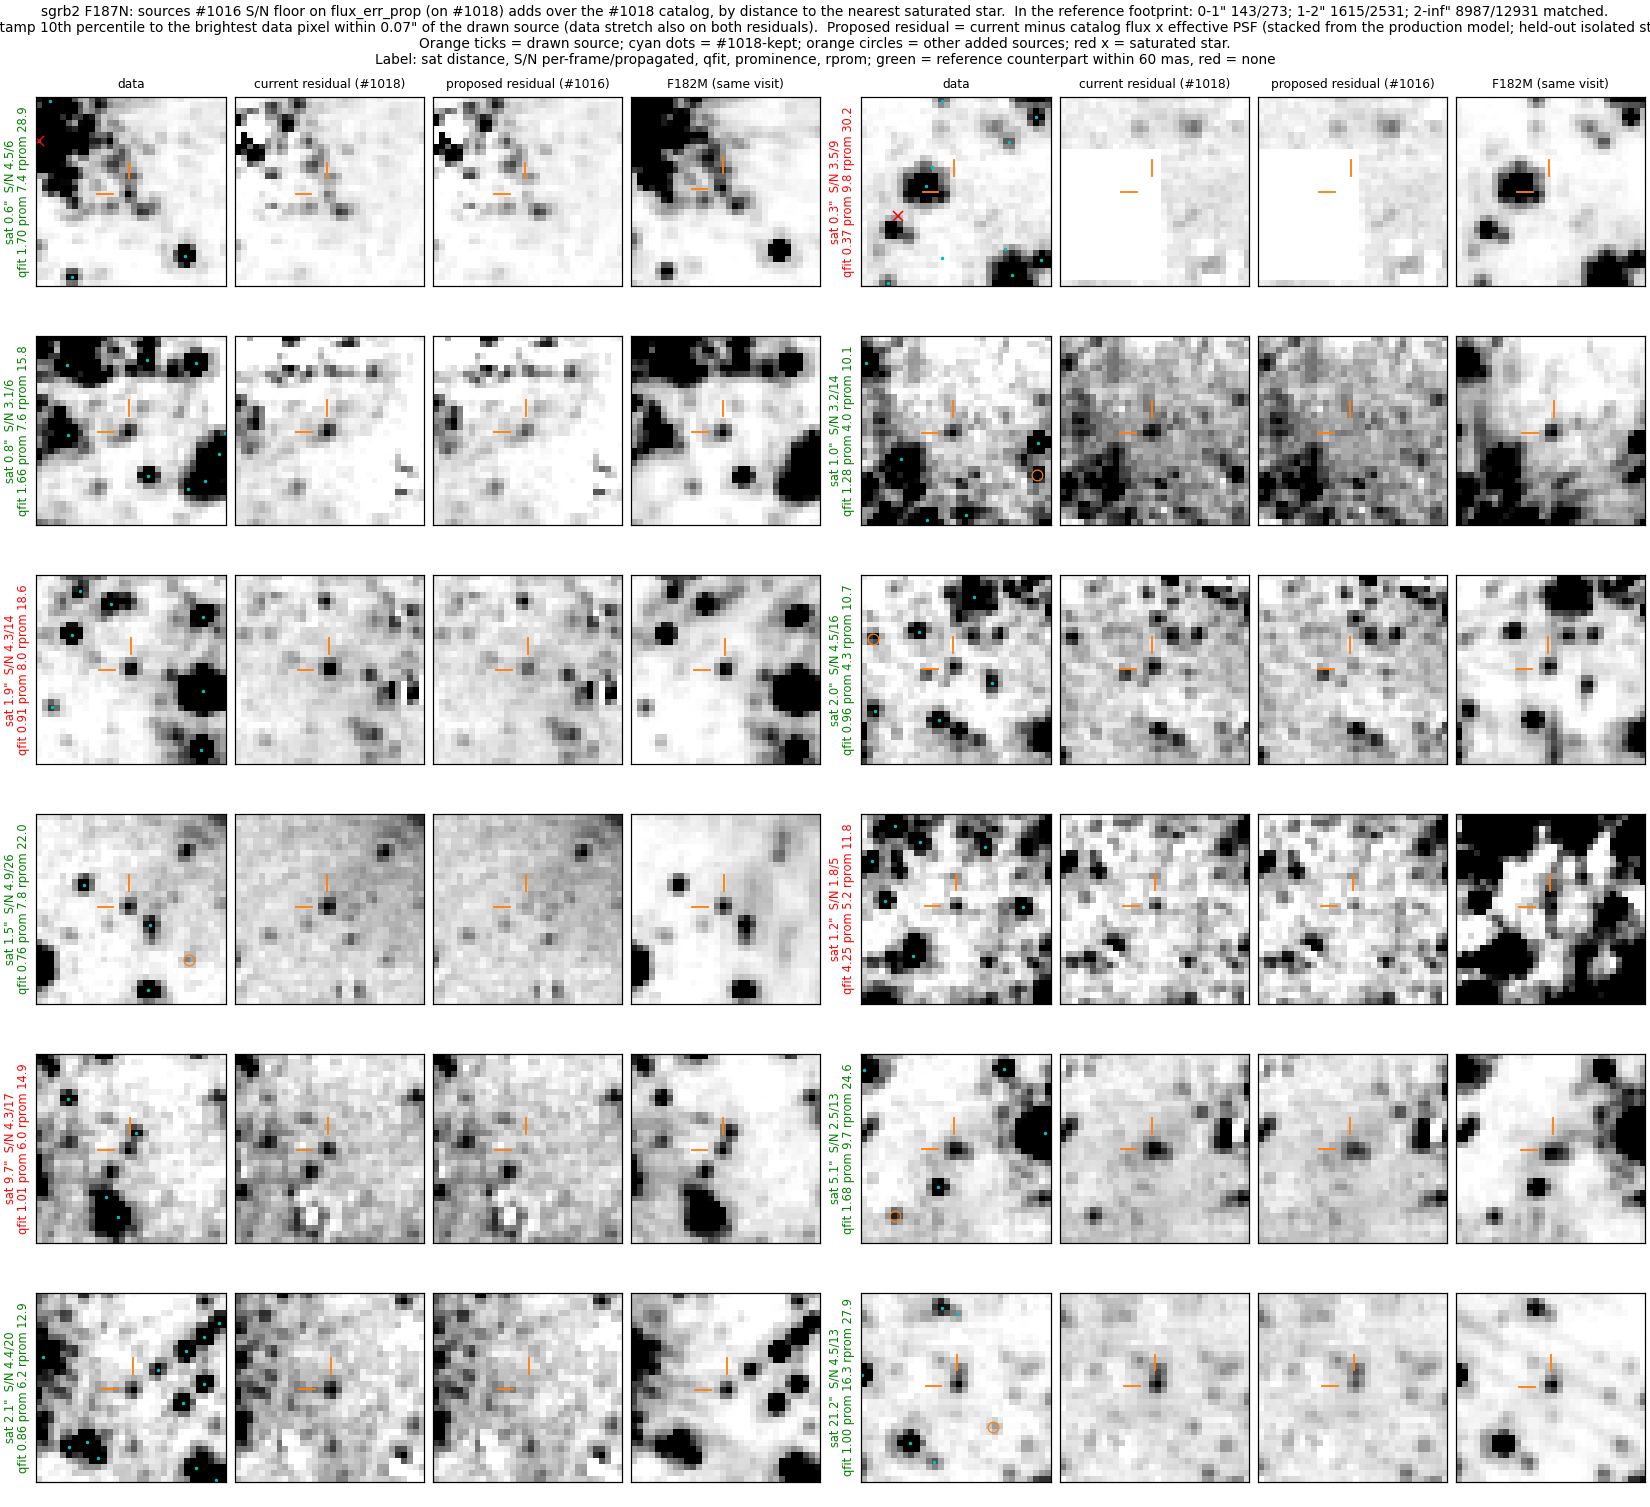
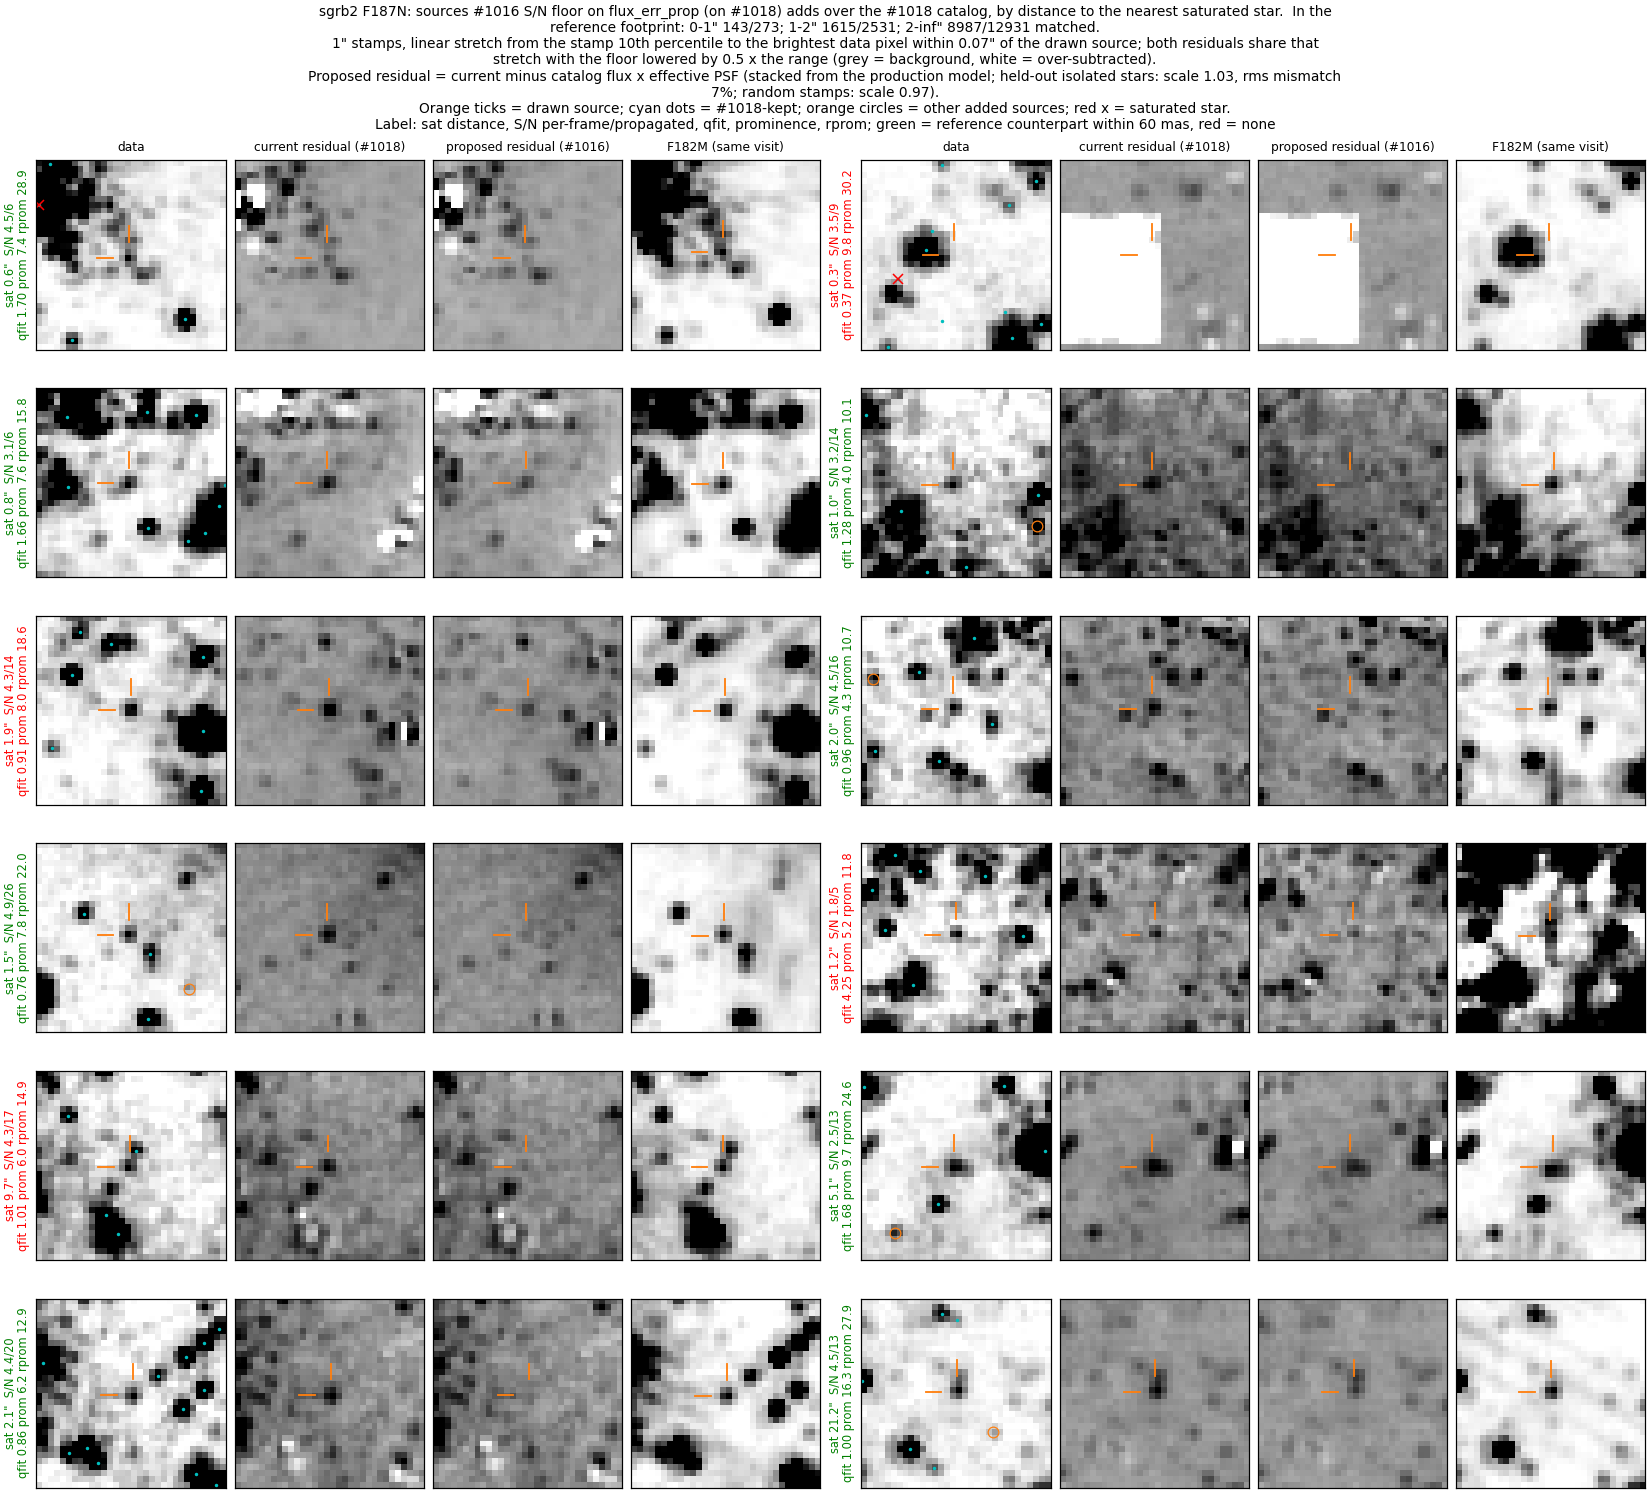
Evidence: re-render the #1016 galleries with an unclipped title and a residual stretch that shows over-subtraction
The suptitle of added_gallery.py was clipped above the figure, which hid the
stamp size and the effective-PSF calibration.  Both residual columns used the
data stretch with its floor at the stamp 10th percentile, so an over-subtracted
core read the same as background.  The residual floor now sits half the data
range lower (grey = background, white = over-subtracted), the title wraps, and
the script prints the nearest reference-catalog separation of every drawn
stamp (data/gallery_stamps_snrp2.txt).  Same 12 sources per field (rng seed 11).

Caption fixes: the stamps are 1", not 2"; 5 (not 6) of the 12 Brick stamps
have an F200W counterpart; the Brick effective PSF calibration (scale 0.37,
54% rms mismatch) and the Sgr B2 one (1.03, 7%) are stated; no stamp shows an
over-subtracted core at the tick.

Claude-Session: https://claude.ai/code/session_018MNE6mts5ka4f6Za16Dcw5

diff --git a/docs/evidence/faint_snr_floor_propagated/scripts/added_gallery.py b/docs/evidence/faint_snr_floor_propagated/scripts/added_gallery.py
@@ -4,9 +4,11 @@ Rows: random added sources (compare.py, out/<field>_<band>_<v>_added_rowid.npy),
 or with kind=lost the base-kept sources the branch drops, two per row, grouped
 by distance to the nearest saturated star (0-1", 1-2", >2").  1" stamps; linear
 stretch from the stamp 10th percentile to the brightest data pixel within
-PEAK_R of the drawn source (the same stretch on both residuals; the reference
-image gets its own local peak), so a faint source sets the stretch rather than
-its brighter neighbours.
+PEAK_R of the drawn source (the reference image gets its own local peak), so a
+faint source sets the stretch rather than its brighter neighbours.  Both
+residuals share one stretch with the floor moved down by RESID_FLOOR x the
+data range, so the background reads grey and an over-subtracted core reads
+white.
 Columns per source:
   data      band data_i2d; cyan dots = base-kept sources (current catalog),
             orange circles = other sources the branch adds (proposed catalog),
@@ -29,6 +31,7 @@ usage: python added_gallery.py <field> <variant>[@<other>] <out.png> [per_bin] [
 import json
 import os
 import sys
+import textwrap
 import warnings
 
 import numpy as np
@@ -81,6 +84,7 @@ SAT_BINS = ((0, 1), (1, 2), (2, np.inf))
 ABBR = {'prominence_robust': 'rprom', 'core_concentration': 'conc', 'local_structure_snr': 'lstruct'}
 HALF = 0.5     # 1" stamps
 PEAK_R = 0.07  # stretch top = brightest pixel within this radius (arcsec) of the drawn source
+RESID_FLOOR = 0.5  # residual stretch floor = data floor - RESID_FLOOR x (data top - data floor)
 
 
 def load(path):
@@ -136,6 +140,8 @@ def main(field, v, out, per_bin=4, kind='added'):
     _, sep, _ = sc_all[add].match_to_catalog_sky(refsc)
     matched = np.zeros(len(base), bool)
     matched[add] = sep.to_value(u.mas) < 60
+    sepmas = np.full(len(base), np.nan)
+    sepmas[add] = sep.to_value(u.mas)
     infp = np.zeros(len(base), bool)
     infp[add] = sep.arcsec < 1.0
     addmask = np.zeros(len(base), bool)
@@ -195,6 +201,8 @@ def main(field, v, out, per_bin=4, kind='added'):
                     ctr, scale_src = dctr, dcut
                 if np.isfinite(ctr).any():
                     vlo, vhi = np.nanpercentile(scale_src, 10), np.nanmax(ctr)
+                    if j in (1, 2):
+                        vlo = vlo - RESID_FLOOR * (vhi - vlo)
                     ax.imshow(cut.data, origin='lower', cmap='gray_r', vmin=vlo, vmax=max(vhi, vlo + 1e-6))
                 x, y = cut.wcs.world_to_pixel(sc)
                 if j == 0:
@@ -217,22 +225,26 @@ def main(field, v, out, per_bin=4, kind='added'):
             ex = ''.join(f' {ABBR[cn]} {float(var[cn][i]):.1f}' for cn in extra)
             axes[rr, c0].set_ylabel(f'sat {dsat[i]:.1f}"  S/N {snr_f:.1f}/{snr_p:.0f}\nqfit {qf[i]:.2f} prom {pr[i]:.1f}{ex}',
                                     fontsize=7.5, color='green' if matched[i] else 'red')
+            print(f'row {rr + 1} {"left" if k % 2 == 0 else "right"}: rowid {i} sat {dsat[i]:.2f}" '
+                  f'nearest reference {sepmas[i]:.0f} mas, S/N {snr_f:.1f}/{snr_p:.0f}, qfit {qf[i]:.2f}, prom {pr[i]:.1f}')
         r += (len(sel) + 1) // 2
     summ = '; '.join(f'{lo}-{hi:g}" {int(matched[idx].sum())}/{idx.size}'
                      for (lo, hi), idx, _ in picks) + ' matched'
     what = 'adds over' if kind == 'added' else 'drops from'
     circ = 'other added sources' if kind == 'added' else 'other dropped sources'
-    fig.suptitle(f'{field} {band.upper()}: sources {PR[v]} {what} the {basel} catalog, by distance to the nearest '
-                 f'saturated star.  In the reference footprint: {summ}.\n'
-                 f'1" stamps, linear stretch from the stamp 10th percentile to the brightest data pixel within '
-                 f'{PEAK_R}" of the drawn source (data stretch also on both residuals).  Proposed residual = '
-                 f'current minus catalog flux x effective PSF (stacked from the production model; '
-                 f'held-out isolated stars: scale {ecal["s_iso"]:.2f}, rms mismatch {ecal["frac_rms_iso"]:.0%}).\n'
-                 f'Orange ticks = drawn source; cyan dots = {basel}-kept; orange circles = {circ}; '
-                 f'red x = saturated star.\n'
-                 f'Label: sat distance, S/N per-frame/propagated, qfit, prominence'
-                 + ''.join(f', {ABBR[cn]}' for cn in extra)
-                 + '; green = reference counterpart within 60 mas, red = none', fontsize=9)
+    lines = [f'{field} {band.upper()}: sources {PR[v]} {what} the {basel} catalog, by distance to the nearest '
+             f'saturated star.  In the reference footprint: {summ}.',
+             f'1" stamps, linear stretch from the stamp 10th percentile to the brightest data pixel within '
+             f'{PEAK_R}" of the drawn source; both residuals share that stretch with the floor lowered by '
+             f'{RESID_FLOOR:g} x the range (grey = background, white = over-subtracted).',
+             f'Proposed residual = current minus catalog flux x effective PSF (stacked from the production model; '
+             f'held-out isolated stars: scale {ecal["s_iso"]:.2f}, rms mismatch {ecal["frac_rms_iso"]:.0%}; '
+             f'random stamps: scale {ecal["s_random"]:.2f}).',
+             f'Orange ticks = drawn source; cyan dots = {basel}-kept; orange circles = {circ}; red x = saturated star.',
+             'Label: sat distance, S/N per-frame/propagated, qfit, prominence'
+             + ''.join(f', {ABBR[cn]}' for cn in extra)
+             + '; green = reference counterpart within 60 mas, red = none']
+    fig.suptitle('\n'.join(textwrap.fill(t, 150) for t in lines), fontsize=9)
     fig.savefig(out, dpi=110)
     plt.close(fig)
     print(out)

diff --git a/docs/evidence/faint_snr_floor_propagated/README.md b/docs/evidence/faint_snr_floor_propagated/README.md
@@ -128,8 +128,9 @@ faint star left in the current m7 residual and removed by the m6 fit.  The
 red-labelled sources include one beside a bright star (row 2 right), one on
 a diffraction spike (row 5 right) and faint isolated peaks (rows 4 and 6,
 right).  `scripts/` holds the replay (`vet_variant.py`), the comparison
-(`compare.py`), the realness slices (`slices.py`) and this gallery
-(`added_gallery.py`).
+(`compare.py`), the realness slices (`slices.py`) and the gallery script
+(`added_gallery.py`); this figure came from an earlier version of it with 2″
+stamps and the production m7 residual column.
 
 ![](added_sgrb2_snr.png)
 
@@ -199,28 +200,42 @@ row for row (the `snrp2pf` control above).
 ![](added_brick_snrp2.png)
 
 Random sources this branch adds over #1018 v2 in Brick F182M, four per bin
-of distance to the nearest saturated star (2″ stamps).  Per source: F182M
+of distance to the nearest saturated star (1″ stamps).  Per source: F182M
 data with the #1018 v2 catalog (cyan dots); the m6 residual with only the
 #1018 v2 sources subtracted (current); the same with the added sources also
 subtracted, each as catalog flux × the effective PSF (proposed); the F200W
-image of the independent visit.  Green labels have an F200W counterpart
-within 60 mas: 6 of the 12 drawn here.  In ten stamps the compact peak at
-the tick is removed in the proposed residual; in the left column, rows 1
-and 2, a fainter peak remains.  Several red-labelled sources (left column,
-rows 5 and 6; right column, rows 1, 5 and 6) have an F200W peak a few
-pixels from the tick, outside the 60 mas match radius.  Right column, row 3
-sits on the edge of emission that F200W also shows.
+image of the independent visit.  Both residuals share one stretch whose
+floor sits half the data range below the data floor, so the background reads
+grey and an over-subtracted core reads white.  Green labels have an F200W
+counterpart within 60 mas: 5 of the 12 drawn here (4–15 mas).  For the seven
+red-labelled sources the nearest F200W catalog source is 128–318 mas away.
+In five of them the F200W image shows a peak at or near the tick that the
+vetted F200W catalog does not list within 60 mas (left column, rows 5 and 6;
+right column, rows 1, 5 and 6); a star missing from the reference catalog
+counts as unmatched.  In ten stamps the
+compact peak at the tick is removed in the proposed residual; in the left
+column, rows 1 and 2, a fainter peak remains.  No stamp shows an
+over-subtracted core at the tick.  The Brick effective PSF is poorly
+calibrated (scale 0.37 on 13 held-out isolated stars, rms mismatch 54%; see
+the figure title), so the depth of each Brick subtraction is approximate.
+Right column, row 3 sits on the edge of emission that F200W also shows.
 
 ![](added_sgrb2_snrp2.png)
 
-The same for Sgr B2 F187N with the same-visit F182M image as reference: 8
-of the 12 drawn have a counterpart.  The compact peak at the tick is removed
-in the left column, rows 2–6.  In the right column, rows 5 and 6, the
-residual peak is broader than the PSF and is only partly removed.  Right
-column, row 1 is 0.3″ from a saturated star, inside its masked core.  Left
-column, rows 3 and 5, are red-labelled with a compact F182M source at the
-tick: the reference is the vetted F182M catalog, and a star missing from it
-counts as unmatched.
+The same for Sgr B2 F187N with the same-visit F182M image as reference.  The
+effective PSF reproduces the Sgr B2 model to 7% (scale 1.03).  8 of the 12
+drawn have a counterpart (2–19 mas); for the other four the nearest F182M
+catalog source is 99–360 mas away.  The compact peak at the tick is removed
+in the left column, rows 2 and 4–6, and in the right column, rows 2 and 3;
+in the left column, row 3, and the right column, row 4, a fainter peak
+remains.  In the right column, rows 5 and 6, the residual peak is broader
+than the PSF and is only partly removed.  Right column, row 1 is 0.3″ from a
+saturated star, inside its masked core.  No stamp shows an over-subtracted
+core at the tick.  Left column, row 3, is red-labelled with a compact F182M
+source at the tick and no F182M catalog source within 360 mas: the reference
+is the vetted F182M catalog, and a star missing from it counts as unmatched.
+`data/gallery_stamps_snrp2.txt` lists each drawn source with its
+separation from the nearest reference source (printed by `added_gallery.py`).
 
 **Reproducing.**  From `scripts/`, with the #1015 base (`seed`) and #1018
 v2 (`prom2`) replays already in `out/`
